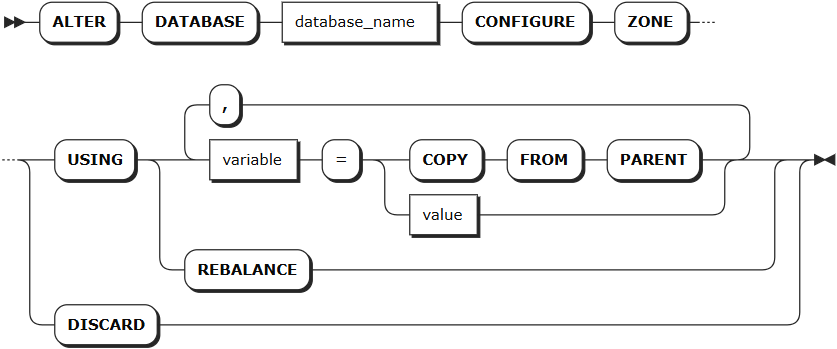
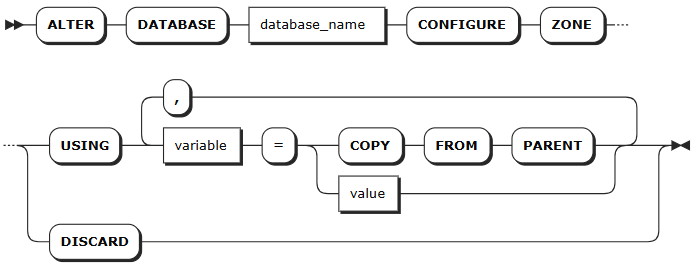
remove rebalance and sql.ts_create.leaseholder_auto_relocated.enabled

diff --git a/db-administration/db-object-mgmt/ts-db/zone-mgmt-ts.md b/db-administration/db-object-mgmt/ts-db/zone-mgmt-ts.md
@@ -130,7 +130,7 @@ KWDB 集群中，每个数据分片都隶属于一个特定的副本区域（zon
 ### 语法格式
 
 ```sql
-ALTER [DATABASE <database_name> | TABLE <table_name> | RANGE <range_name> | PARTITION <partition_name> OF TABLE <table_name> ] CONFIGURE ZONE [USING <variable> = [COPY FROM PARENT | <value>], <variable> = [<value> | COPY FROM PARENT], ... | USING REBALANCE | DISCARD];
+ALTER [DATABASE <database_name> | TABLE <table_name> | RANGE <range_name> | PARTITION <partition_name> OF TABLE <table_name> ] CONFIGURE ZONE [USING <variable> = [COPY FROM PARENT | <value>], <variable> = [<value> | COPY FROM PARENT], ... | DISCARD];
 ```
 
 ### 参数说明
@@ -144,7 +144,6 @@ ALTER [DATABASE <database_name> | TABLE <table_name> | RANGE <range_name> | PART
 | `variable` | 要修改的变量名，时序库支持修改以下变量：<br>- `range_min_bytes`：数据分片的最小大小，单位为字节。数据分片小于该值时，KWDB 会将其与相邻数据分片合并。默认值：256 MiB，设置值应大于 1 MiB（1048576 字节），小于数据分片的最大大小。 <br>- `range_max_bytes`：数据分片的最大大小，单位为字节。数据分片大于该值时，KWDB 会将其切分到两个数据分片。默认值： 512 MiB。设置值不得小于 5 MiB（5242880 字节）。<br>- `gc.ttlseconds`：数据在垃圾回收前保留的时间，单位为秒。默认值为 `90000`（25 小时）。设置值建议不小于 600 秒（10 分钟），以免影响长时间运行的查询。设置值较小时可以节省磁盘空间，设置值较大时会增加 `AS OF SYSTEM TIME` 查询的时间范围。另外，由于每行的所有版本都存储在一个永不拆分的单一数据分片内，不建议将该值设置得太大，以免单行的所有更改累计超过 64 MiB，导致内存不足或其他问题。<br>- `num_replicas`：副本数量。默认值为 3。`system` 数据库、`meta`、`liveness` 和 `system` 数据分片的默认副本数为 5。 **注意**：集群中存在不可用节点时，副本数量不可缩减。<br>- `constraints`：副本位置的必需（+）和/或禁止（-）约束。例如 `constraints = '{"+region=NODE1": 1, "+region=NODE2": 1, "+region=NODE3": 1}'` 表示在节点 1、2 和 3 上必须各放置 1 个副本。目前只支持 `region=NODEx` 格式<br>- `lease_preferences`：主副本位置的必需（+）和/或禁止（-）约束的有序列表。例如 `lease_preferences = '[[+region=NODE1]]'` 表示倾向将主副本放置在节点 1。如果不能满足首选项，KWDB 将尝试下一个优先级。如果所有首选项都无法满足，KWDB 将使用默认的租约分布算法，基于每个节点已持有的租约数量来决定租约位置，尝试平衡租约分布。列表中的每个值可以包含多个约束。<br>- `ts_merge.days`：时序数据分片合并时间。同一个时序表同哈希点按照时间戳分裂后，超过该时间的数据分片将自动合并，且合并后不会再自动拆分。默认值：10（10天）。设置值必须大于等于 0，设置值为 0 时表示时序数据分片按照时间戳分裂后便立刻自动合并。系统数据分片数量过多导致出现网络等故障时可以将该值适当调小，以缓解数据过大的问题。<br><br>**提示**：<br>- 租约偏好不必与 `constraints` 字段共享，用户可以单独定义 `lease_preferences`。<br>- 设置 `constraints` 时需要同步设置 `num_replicas`，且 `constraints` 数量需要小于等于 `num_replicas` 数量。`constraints` 中的顺序无影响。<br>- KWDB 默认只根据哈希点拆分数据分片，因此数据分片按时间合并功能默认关闭，如需支持按时间合并数据分片，需将 `kv.kvserver.ts_split_interval` 实时参数设置为 `1`, 将 `kv.kvserver.ts_split_by_timestamp.enabled` 实时参数设置为 `true` 以支持按照哈希点和时间戳拆分数据分片。 |
 | `value` | 变量值。 |
 |`COPY FROM PARENT`| 使用父区域的设置值。|
-|`USING REBALANCE` | 手动触发数据分片的区域重新分配和负载均衡。<br><br>适用于以下场景：<br>- 关闭自动均衡后的主动调优<br>- 负载不均时的人工干预<br><br>KWDB 默认自动执行后台数据分片均衡，用户通过 `SET CLUSTER SETTING kv.allocator.ts_consider_rebalance.enabled = false;` 关闭自动均衡功能后，可在系统低负载时段进行手动均衡。<br><br>注意：<br>- 该功能仅适用于用户数据分片，不适用于系统数据分片<br>- 建议在业务低峰期执行，避免影响正常业务性能。 |
 |`DISCARD` | 移除区域配置，采用默认值。|
 
 ### 语法示例
@@ -211,11 +210,3 @@ ALTER [DATABASE <database_name> | TABLE <table_name> | RANGE <range_name> | PART
                     |     lease_preferences = '[]'
      (1 row)
      ```
-
-- 手动均衡指定时序表的数据分片
-
-  以下示例将时序表 `sensor` 的数据分片进行了手动均衡。
-
-  ```SQL
-  ALTER TABLE sensor CONFIGURE ZONE USING REBALANCE;
-  ```

diff --git a/db-administration/db-object-mgmt/ts-db/table-mgmt-ts.md b/db-administration/db-object-mgmt/ts-db/table-mgmt-ts.md
@@ -43,7 +43,7 @@ PRIMARY [TAGS|ATTRIBUTES] (<primary_tag_list>)
 | `keep_duration` | 可选参数，设置表的数据生命周期。数据超过此时长后将被系统自动清除。<br>默认值： `0s`（永久保留）<br>时间单位：<br>- 秒：`s` 或 `second`<br>- 分钟：`m` 或 `minute`<br>- 小时：`h` 或 `hour`<br>- 天：`d` 或 `day`<br>- 周：`w` 或 `week`<br>- 月：`mon` 或 `month`<br>- 年：`y` 或 `year`<br>取值范围:正整数，上限为 1000 年<br>**说明：**<br>- 表级设置优先于库级设置。<br>- 保留时长越长，存储空间占用越大，请根据业务需求合理配置。<br>- 如果待写入的数据已超过生命周期限制，系统会直接丢弃该数据，不予写入。|
 | `DICT ENCODING`| 可选参数，启用字符串的字典编码功能，提升字符串数据的压缩能力。表中存储的字符串数据重复率越高，压缩优化效果越明显。该功能只适用于 CHAR 和 VARCHAR 长度小于等于 `1023` 的字符串，且只能在建表时开启。开启后不支持禁用。 |
 | `[COMMENT [=] <'comment_text'>` | 可选项，定义表的注释信息。 |
-| `hash_value`| 可选参数，用于定义分布式集群中 HASH 环的大小，决定最大 Range 分片数量。例如 HASH(100) 表示最多可产生 100 个不同的 Range 分片。<br><br>默认值为 2000，表示最多可产生 2000 个 Range 分片。支持设置范围为 [1,50000]。<br><br>性能影响：HASH 值过小时将导致多个设备的数据集中在少数 Range 中，形成写入热点，HASH 值过大时则会导致 Range 数量过多，增加管理开销。<br><br>推荐配置：建议根据预期设备数量选择合适的 HASH 值：<br>- 设备数 ≤ 1,000：HASH 值 < 20<br>- 设备数 ≤ 50,000：HASH 值 < 2,000<br>- 设备数 ≤ 1,000,000：HASH 值 < 10,000 <br><br>最佳实践：建议配合集群参数 `SET CLUSTER SETTING sql.ts_create.leaseholder_auto_relocated.enabled = true;`使用，可在建表时自动将 Range 分片和 Leaseholder 均匀分布到各节点，从源头避免热点问题。 |
+| `hash_value`| 可选参数，用于定义分布式集群中 HASH 环的大小，决定最大 Range 分片数量。例如 HASH(100) 表示最多可产生 100 个不同的 Range 分片。<br><br>默认值为 2000，表示最多可产生 2000 个 Range 分片。支持设置范围为 [1,50000]。<br><br>性能影响：HASH 值过小时将导致多个设备的数据集中在少数 Range 中，形成写入热点，HASH 值过大时则会导致 Range 数量过多，增加管理开销。<br><br>推荐配置：建议根据预期设备数量选择合适的 HASH 值：<br>- 设备数 ≤ 1,000：HASH 值 < 20<br>- 设备数 ≤ 50,000：HASH 值 < 2,000<br>- 设备数 ≤ 1,000,000：HASH 值 < 10,000|
 
 ### 语法示例
 
@@ -313,7 +313,7 @@ ALTER TABLE <table_name>
 |ADD [TAG | ATTRIBUTE] <tag_name> <tag_type>
 |ALTER [COLUMN] <colunm_name> [SET DATA] TYPE <new_type> [SET DEFAULT <default_expr> | DROP DEFAULT ]
 |ALTER [TAG | ATTRIBUTE] <tag_name> [SET DATA] TYPE <new_type>
-| CONFIGURE ZONE [USING <variable> = [COPY FROM PARENT | <value>], <variable> = [COPY FROM PARENT | <value>] ... | USING REBALANCE | DISCARD]
+| CONFIGURE ZONE [USING <variable> = [COPY FROM PARENT | <value>], <variable> = [COPY FROM PARENT | <value>] ... | DISCARD]
 |DROP [COLUMN] [IF EXISTS] <colunm_name>
 |DROP [TAG | ATTRIBUTE] <tag_name>
 |<partition_by_clause>

diff --git a/db-administration/db-mgmt/db-mgmt-ts.md b/db-administration/db-mgmt/db-mgmt-ts.md
@@ -240,7 +240,7 @@ KWDB 支持修改数据库的名称、生命周期和区域配置。
   
   ```sql
   ALTER DATABASE <db_name> CONFIGURE ZONE 
-  [USING <variable> = [COPY FROM PARENT | <value>], <variable> = [<value> | COPY FROM PARENT], ... | USING REBALANCE | DISCARD];
+  [USING <variable> = [COPY FROM PARENT | <value>], <variable> = [<value> | COPY FROM PARENT], ... | DISCARD];
   ```
 
 ### 参数说明
@@ -254,7 +254,6 @@ KWDB 支持修改数据库的名称、生命周期和区域配置。
 | `variable` | 要修改的变量名，时序库支持修改以下变量：<br>- `range_min_bytes`：数据分片的最小大小，单位为字节。数据分片小于该值时，KWDB 会将其与相邻数据分片合并。默认值：256 MiB，设置值应大于 1 MiB（1048576 字节），小于数据分片的最大大小。 <br>- `range_max_bytes`：数据分片的最大大小，单位为字节。数据分片大于该值时，KWDB 会将其切分到两个数据分片。默认值： 512 MiB。设置值不得小于 5 MiB（5242880 字节）。<br>- `gc.ttlseconds`：数据在垃圾回收前保留的时间，单位为秒。默认值为 `90000`（25 小时）。设置值建议不小于 600 秒（10 分钟），以免影响长时间运行的查询。设置值较小时可以节省磁盘空间，设置值较大时会增加 `AS OF SYSTEM TIME` 查询的时间范围。另外，由于每行的所有版本都存储在一个永不拆分的单一数据分片内，不建议将该值设置得太大，以免单行的所有更改累计超过 64 MiB，导致内存不足或其他问题。<br>- `num_replicas`：副本数量。默认值为 3。`system` 数据库、`meta`、`liveness` 和 `system` 数据分片的默认副本数为 5。 **注意**：集群中存在不可用节点时，副本数量不可缩减。<br>- `ts_merge.days`：时序数据分片合并时间。同一个时序表同哈希点按照时间戳分裂后，超过该时间的数据分片将自动合并，且合并后不会再自动拆分。默认值：10（10天）。设置值必须大于等于 0，设置值为 0 时表示时序数据分片按照时间戳分裂后便立刻自动合并。系统数据分片数量过多导致出现网络等故障时可以将该值适当调小，以缓解数据过大的问题。**提示：**  KWDB 默认只根据哈希点拆分数据分片，因此数据分片按时间合并功能默认关闭，如需支持按时间合并数据分片，需将 `kv.kvserver.ts_split_interval` 实时参数设置为 `1`, 将 `kv.kvserver.ts_split_by_timestamp.enabled` 实时参数设置为 `true` 以支持按照哈希点和时间戳拆分数据分片。 |
 | `value` | 变量值。 |
 |`COPY FROM PARENT`| 使用父区域的设置值。|
-|`USING REBALANCE` | 手动触发数据分片的区域重新分配和负载均衡。<br><br>适用于以下场景：<br>- 关闭自动均衡后的主动调优<br>- 负载不均时的人工干预<br><br>KWDB 默认自动执行后台数据分片均衡，用户通过 `SET CLUSTER SETTING kv.allocator.ts_consider_rebalance.enabled = false;` 关闭自动均衡功能后，可在系统低负载时段进行手动均衡。<br><br>注意：<br>- 该功能仅适用于用户数据分片，不适用于系统数据分片<br>- 建议在业务低峰期执行，避免影响正常业务性能。 |
 |`DISCARD` | 移除区域配置，采用默认值。|
 
 ### 语法示例

diff --git a/sql-reference/ddl/ts-db/ts-database.md b/sql-reference/ddl/ts-db/ts-database.md
@@ -245,7 +245,6 @@ USE ts_db;
 | `variable` | 要修改的变量名，时序库支持修改以下变量：<br>- `range_min_bytes`：分区的最小大小，单位为字节。分区小于该值时，KWDB 会将其与相邻分区合并。默认值：256 MiB，设置值应大于 1 MiB（1048576 字节），小于分区的最大大小。 <br>- `range_max_bytes`：分区的最大大小，单位为字节。分区大于该值时，KWDB 会将其切分到两个分区。默认值： 512 MiB。设置值不得小于 5 MiB（5242880 字节）。<br>- `gc.ttlseconds`：数据在垃圾回收前保留的时间，单位为秒。默认值为 `90000`（25 小时）。设置值建议不小于 600 秒（10 分钟），以免影响长时间运行的查询。设置值较小时可以节省磁盘空间，设置值较大时会增加 `AS OF SYSTEM TIME` 查询的时间范围。另外，由于每行的所有版本都存储在一个永不拆分的单一分区内，不建议将该值设置得太大，以免单行的所有更改累计超过 64 MiB，导致内存不足或其他问题。<br>- `num_replicas`：副本数量。默认值为 3。`system` 数据库、`meta`、`liveness` 和 `system` 分区的默认副本数为 5。 **注意**：集群中存在不可用节点时，副本数量不可缩减。<br>- `ts_merge.days`：时序分区合并时间。同一个时序表同哈希点按照时间戳分裂后，超过该时间的分区将自动合并，且合并后不会再自动拆分。默认值：10（10天）。设置值必须大于等于 0，设置值为 0 时表示时序分区按照时间戳分裂后便立刻自动合并。系统分区数量过多导致出现网络等故障时可以将该值适当调小，以缓解数据过大的问题。**提示：**  KWDB 默认只根据哈希点拆分分区，因此分区按时间合并功能默认关闭，如需支持按时间合并分区，需将 `kv.kvserver.ts_split_interval` 实时参数设置为 `1`, 将 `kv.kvserver.ts_split_by_timestamp.enabled` 实时参数设置为 `true` 以支持按照哈希点和时间戳拆分分区。 |
 | `value` | 变量值。 |
 |`COPY FROM PARENT`| 使用父区域的设置值。|
-|`USING REBALANCE` | 手动触发数据分片的区域重新分配和负载均衡。<br><br>适用于以下场景：<br>- 关闭自动均衡后的主动调优<br>- 负载不均时的人工干预<br><br>KWDB 默认自动执行后台数据分片均衡，用户通过 `SET CLUSTER SETTING kv.allocator.ts_consider_rebalance.enabled = false;` 关闭自动均衡功能后，可在系统低负载时段进行手动均衡。<br><br>注意：<br>- 该功能仅适用于用户数据分片，不适用于系统数据分片<br>- 建议在业务低峰期执行，避免影响正常业务性能。 |
 |`DISCARD` | 移除区域配置，采用默认值。|
 
 ### 语法示例

diff --git a/sql-reference/ddl/ts-db/ts-table.md b/sql-reference/ddl/ts-db/ts-table.md
@@ -36,7 +36,7 @@ id: ts-table
 | `keep_duration` | 可选参数，设置表的数据生命周期。数据超过此时长后将被系统自动清除。<br>默认值： `0s`（永久保留）<br>时间单位：<br>- 秒：`s` 或 `second`<br>- 分钟：`m` 或 `minute`<br>- 小时：`h` 或 `hour`<br>- 天：`d` 或 `day`<br>- 周：`w` 或 `week`<br>- 月：`mon` 或 `month`<br>- 年：`y` 或 `year`<br>取值范围:正整数，上限为 1000 年<br>**说明：**<br>- 表级设置优先于库级设置。<br>- 保留时长越长，存储空间占用越大，请根据业务需求合理配置。<br>- 如果待写入的数据已超过生命周期限制，系统会直接丢弃该数据，不予写入。|
 | `DICT ENCODING`| 可选参数，启用字符串的字典编码功能，提升字符串数据的压缩能力。表中存储的字符串数据重复率越高，压缩优化效果越明显。该功能只适用于 CHAR 和 VARCHAR 长度小于等于 `1023` 的字符串，且只能在建表时开启。开启后不支持禁用。 |
 | `[COMMENT [=] <'comment_text'>` | 可选参数，定义表的注释信息。 |
-| `hash_value`| 可选参数，用于定义分布式集群中 HASH 环的大小，决定最大 Range 分片数量。例如 HASH(100) 表示最多可产生 100 个不同的 Range 分片。<br><br>默认值为 2000，表示最多可产生 2000 个 Range 分片。支持设置范围为 [1,50000]。<br><br>性能影响：HASH 值过小时将导致多个设备的数据集中在少数 Range 中，形成写入热点，HASH 值过大时则会导致 Range 数量过多，增加管理开销。<br><br>推荐配置：建议根据预期设备数量选择合适的 HASH 值：<br>- 设备数 ≤ 1,000：HASH 值 < 20<br>- 设备数 ≤ 50,000：HASH 值 < 2,000<br>- 设备数 ≤ 1,000,000：HASH 值 < 10,000 <br><br>最佳实践：建议配合集群参数 `SET CLUSTER SETTING sql.ts_create.leaseholder_auto_relocated.enabled = true;`使用，可在建表时自动将 Range 分片和 Leaseholder 均匀分布到各节点，从源头避免热点问题。 |
+| `hash_value`| 可选参数，用于定义分布式集群中 HASH 环的大小，决定最大 Range 分片数量。例如 HASH(100) 表示最多可产生 100 个不同的 Range 分片。<br><br>默认值为 2000，表示最多可产生 2000 个 Range 分片。支持设置范围为 [1,50000]。<br><br>性能影响：HASH 值过小时将导致多个设备的数据集中在少数 Range 中，形成写入热点，HASH 值过大时则会导致 Range 数量过多，增加管理开销。<br><br>推荐配置：建议根据预期设备数量选择合适的 HASH 值：<br>- 设备数 ≤ 1,000：HASH 值 < 20<br>- 设备数 ≤ 50,000：HASH 值 < 2,000<br>- 设备数 ≤ 1,000,000：HASH 值 < 10,000 |
 
 ### 语法示例
 

diff --git a/sql-reference/ddl/ts-db/ts-zone.md b/sql-reference/ddl/ts-db/ts-zone.md
@@ -148,7 +148,6 @@ id: ts-zone
 | `value` | 变量值。 |
 |`COPY FROM PARENT`| 使用父区域的设置值。|
 |`DISCARD` | 移除区域配置，采用默认值。|
-|`USING REBALANCE` | 手动触发数据库、表、或数据分片的区域重新分配和负载均衡。<br><br>适用于以下场景：<br>- 关闭自动均衡后的主动调优<br>- 负载不均时的人工干预<br><br>KWDB 默认自动执行后台数据分片均衡，用户通过 `SET CLUSTER SETTING kv.allocator.ts_consider_rebalance.enabled = false;` 关闭自动均衡功能后，可在系统低负载时段进行手动均衡。<br><br>注意：<br>- 该功能仅适用于用户数据分片，不适用于系统数据分片<br>- 建议在业务低峰期执行，避免影响正常业务性能。 |
 
 ### 语法示例
 
@@ -214,11 +213,3 @@ id: ts-zone
                     |     lease_preferences = '[]'
      (1 row)
      ```
-
-- 手动均衡指定时序表的数据分片
-
-  以下示例将时序表 `sensor` 的数据分片进行了手动均衡。
-
-  ```SQL
-  ALTER TABLE sensor CONFIGURE ZONE USING REBALANCE;
-  ```
